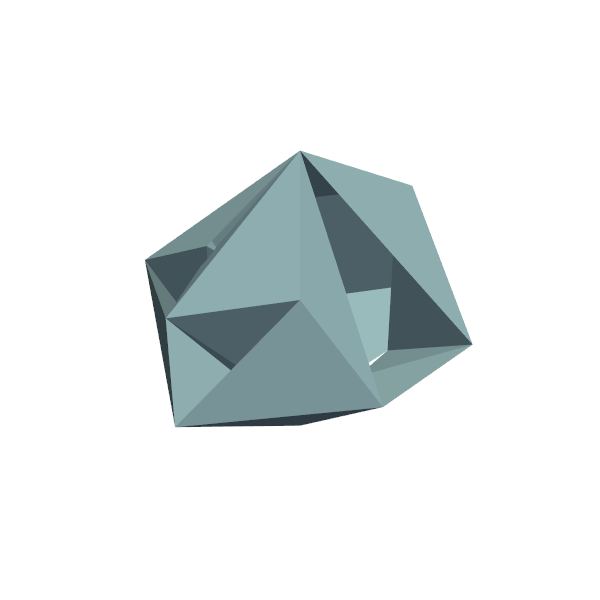
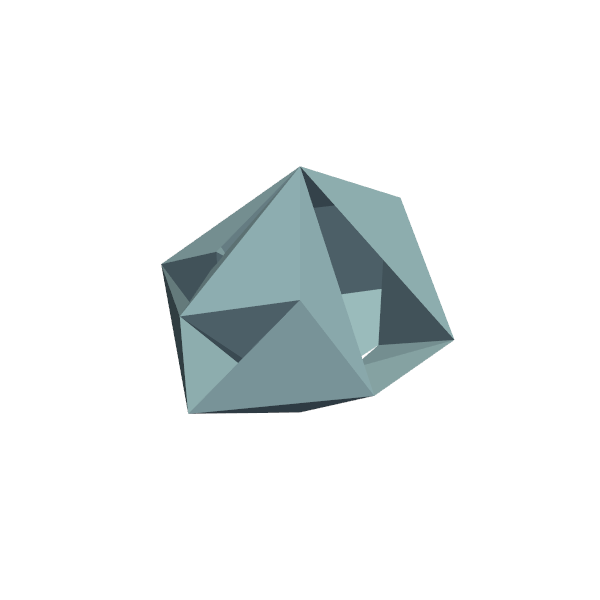
Gallery change
Main change was the Gallery view:
Increased the size of the icons as well as make the gallery more of a grid view.
I also had to edit the thumbnail generation to make sure that all of the model is seen regardless of size.

Pytests:
Made two successful pytests and started a third

Data management addition:
Due one of a failed pytests, I accidently added two models that don't exist, so I made a function that hopefully works well that either gets rid of or ignores the models that have no filepath that exists (I intended it to delete them but I cannot tell if it was successful).

Changed region(s): [[0.24, 0.24, 0.78, 0.72], [0.54, 0.39, 0.57, 0.48]]

diff --git a/app/pages.py b/app/pages.py
@@ -7,9 +7,9 @@ import os
 from PyQt6.QtGui import QImage, QIcon
 from PyQt6.QtWidgets import (
     QWidget, QVBoxLayout, QLineEdit, QListWidget,
-    QListWidgetItem, QPushButton, QTextEdit, QLabel, QHBoxLayout
+    QListWidgetItem, QPushButton, QTextEdit, QLabel, QHBoxLayout, QGridLayout, QListView
 )
-from PyQt6.QtCore import Qt
+from PyQt6.QtCore import Qt, QSize
 from app.viewer import ThreeDViewer
 from app.data_manager import DataManager
 
@@ -44,7 +44,7 @@ class GalleryPage(BasePage):
     
     def setup_ui(self):
         """Put together the search bar and model list"""
-        layout = QVBoxLayout(self)
+        layout = QGridLayout(self) # was QVBox Layout
         layout.setContentsMargins(10, 10, 10, 10)
         layout.setSpacing(10)
 
@@ -60,6 +60,10 @@ class GalleryPage(BasePage):
         self.model_list = QListWidget()
         self.model_list.setAlternatingRowColors(True)
         self.model_list.itemClicked.connect(self.on_model_selected)
+        self.model_list.setFlow(QListView.Flow.LeftToRight)
+        self.model_list.setWrapping(True)
+        self.model_list.setResizeMode(QListWidget.ResizeMode.Adjust)
+
         layout.addWidget(self.model_list)
     
     def load_models(self):
@@ -73,9 +77,17 @@ class GalleryPage(BasePage):
     def populate_model_list(self, models):
         """Fill the list with model names"""
         self.model_list.clear()
+
+        # setup for the gallery view
+        self.model_list.setWordWrap(True)
+        self.model_list.setIconSize(QSize(150, 150))
+        self.model_list.setGridSize(QSize(175, 175))
+        self.model_list.setViewMode(QListWidget.ViewMode.IconMode)
+
         for model in models:
             # model name
-            item = QListWidgetItem(model['display_name'])
+            item = QListWidgetItem()
+            item.setText(model['display_name'])
             item.setData(Qt.ItemDataRole.UserRole, model)
 
             # model thumbnail
@@ -89,6 +101,7 @@ class GalleryPage(BasePage):
             item.setIcon(thumbnail)
 
             self.model_list.addItem(item)
+
     
     def filter_models(self, query: str):
         """Update the list as the user types in the search box"""

diff --git a/app/test_viewer.py b/app/test_viewer.py
@@ -1,0 +1,78 @@
+import os
+import sys
+
+import pytest
+from PyQt6.QtWidgets import QApplication
+
+"""
+Pytest #1 
+This tests if the generate thumbnail function works as intended
+It passes in a test object in the pytest assets and will make it a thumbnail
+By the end, it will delete the thumbnail to not add clutter
+"""
+from app.viewer import ThreeDViewer
+
+@pytest.mark.skip(reason="successful, no need to see this each time for now")
+# WORKS
+def test_generate_thumbnail():
+    app = QApplication(sys.argv)
+
+    file_name = "assets\\pytest assets\\cone_test.obj"
+    object = ThreeDViewer()
+    object.generate_thumbnail(file_name)
+
+    # checks if it makes the png file
+    check = os.path.exists("assets\\thumbnails\\cone_test.png")
+
+    # cleans up the new file
+    if check == True:
+        os.remove("assets\\thumbnails\\cone_test.png")
+
+    assert check == True
+
+"""
+Pytest #2
+Passing the add_model function something that does exist
+"""
+from app.data_manager import DataManager
+
+@pytest.mark.skip(reason="successful, no need to see this each time for now")
+# WORKS
+def test_add_model_exists():
+    object = DataManager()
+
+    id_number = "model_001"
+    file_name = "cube.obj"
+    name = "Cube"
+    tags = [
+      "geometric",
+      "primitive",
+      "box",
+      "square"
+    ]
+
+    assert object.add_model(id_number, file_name, name, tags) == False
+
+from app.pages import GalleryPage
+"""
+Pytest #3
+Search bar returns the right amount of models per the tag searched 
+"""
+@pytest.skip(reason = "Not finished")
+def test_tag_gallery_search():
+    app = QApplication(sys.argv)
+
+    object = GalleryPage()
+    object.filter_models("round")
+
+
+
+""" 
+Pytest #4
+
+"""
+
+"""
+Pytest #5
+
+"""

diff --git a/app/data_manager.py b/app/data_manager.py
@@ -51,6 +51,9 @@ class DataManager:
         # Run migrations
         self._run_migrations()
         self._migrate_from_json()
+
+        #cleanup
+        self.remove_nonexistent_models()
     
     def _run_migrations(self):
         """create tables and indexes if they don't exist"""
@@ -110,7 +113,7 @@ class DataManager:
         except (json.JSONDecodeError, IOError, sqlite3.Error) as e:
             print(f"Error migrating from JSON: {e}")
             self.conn.rollback()
-    
+
     def get_model_path(self, model_id: str) -> Optional[Path]:
         """get file path for a model by id"""
         cursor = self.conn.cursor()
@@ -120,7 +123,26 @@ class DataManager:
         if row:
             return self.models_dir / row['filename']
         return None
-    
+
+    def remove_nonexistent_models(self):
+        """remove all models from models.db that don't exist in the assets folder        """
+        cursor = self.conn.cursor()
+        cursor.execute("SELECT id, filename FROM models")
+        all_models = cursor.fetchall()
+
+        deleted_number = 0
+
+        for row in all_models:
+            model_id = row['id']
+            file_path = self.get_model_path(model_id)
+
+            if file_path.exists() == False:
+                cursor.execute("DELETE FROM models WHERE id = ?", (model_id,))
+                deleted_number += 1
+
+        self.conn.commit()
+        print(f"Removed {deleted_number} models from models.db")
+
     def get_all_models(self) -> List[Dict]:
         """get all models, sorted by creation date.
             However, we don't need to run this query often"""

diff --git a/app/viewer.py b/app/viewer.py
@@ -65,8 +65,10 @@ class ThreeDViewer(QtInteractor):
         print(file_name)
         # positioning the camera
         thumbnail.view_isometric()
+        # to include the full model
+        thumbnail.reset_camera()
         # optional zoom
-        thumbnail.camera.zoom(1)
+        thumbnail.camera.zoom(0.9)
         thumbnail.screenshot(f"assets\\thumbnails\\{file_name}")
         thumbnail.close() # IMPORTANT
 
